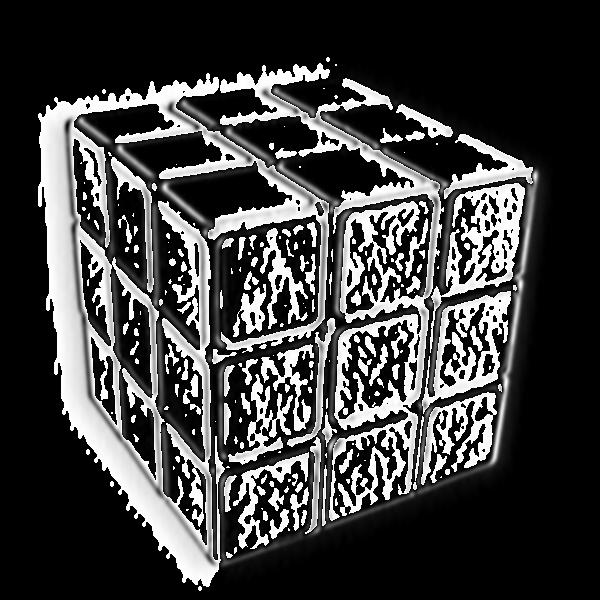
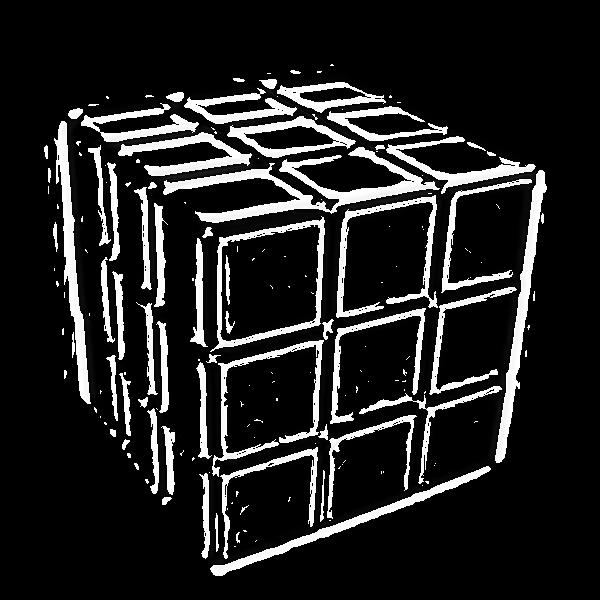
Canny edge detector kinda working

diff --git a/2_feature_extraction/2.1_edge_detection/canny_ed.py b/2_feature_extraction/2.1_edge_detection/canny_ed.py
@@ -51,11 +51,9 @@ def canny_ed (pixel_grid, sigma):
     gradient_x = cv2.filter2D(smoothed, -1, sobel[0])
     gradient_y = cv2.filter2D(smoothed, -1, sobel[1])
 
-    # magnitude = np.sqrt(gradient_x**2 + gradient_y**2)
-
-    # display_image = cv2.normalize(
-    #     magnitude, None, 0, 255, cv2.NORM_MINMAX
-    # ).astype(np.uint8)
+    Ixx = cv2.Sobel(smoothed, cv2.CV_64F, 2, 0, ksize=3)
+    Iyy = cv2.Sobel(smoothed, cv2.CV_64F, 0, 2, ksize=3)
+    Ixy = cv2.Sobel(smoothed, cv2.CV_64F, 1, 1, ksize=3)
 
     # in multivariable calculus, derivative of a scalar-valued function f at P in the
     #   direction of m is equal to ∇f(P) * m/||m||. Here, ∇f = m = (I_x, I_y), where
@@ -67,21 +65,19 @@ def canny_ed (pixel_grid, sigma):
     for row in range(len(gradient_x)):
         gradient_laplacian.append([])
         for col in range(len(gradient_x[0])):
-            # gradient_mag = math.sqrt(
-            #     gradient_x[row][col]**2 + gradient_y[row][col]**2
-            # )
-            # gradient_orientation = math.atan(
-            #     gradient_y[row][col] / gradient_x[row][col]
-            # )
+            
 
-            gradient_laplacian[-1].append(
-                (
-                    gradient_x[row][col]**2 + 
-                    2*gradient_x[row][col]*gradient_y[row][col] +
-                    gradient_y[row][col]**2
-                ) / (gradient_x[row][col]**2 + gradient_y[row][col]**2)
-            )
+            if gradient_x[row][col] == gradient_y[row][col] == 0:
+                gradient_laplacian[-1].append(0)
+            else:
+                gradient_laplacian[-1].append(
+                    (
+                        gradient_x[row][col]**2 * Ixx[row][col] + 
+                        2*gradient_x[row][col]*gradient_y[row][col] * Ixy[row][col] +
+                        gradient_y[row][col]**2 * Iyy[row][col]
+                    ) / (gradient_x[row][col]**2 + gradient_y[row][col]**2)
+                )
     gradient_laplacian = np.array(gradient_laplacian)
-    print(gradient_laplacian)
+    # print(gradient_laplacian)
 
-    return gradient_x
+    return gradient_laplacian

diff --git a/2_feature_extraction/2.1_edge_detection/main.py b/2_feature_extraction/2.1_edge_detection/main.py
@@ -16,7 +16,7 @@ else:
 img = Image.open(src_path).convert("RGB")
 pixel_grid = np.array(img)
 
-edges = canny_ed.canny_ed(pixel_grid, 2)
+edges = canny_ed.canny_ed(pixel_grid, 3)
 
 newimg = Image.fromarray(edges.astype(np.uint8))
 newimg.save(dest_path)
